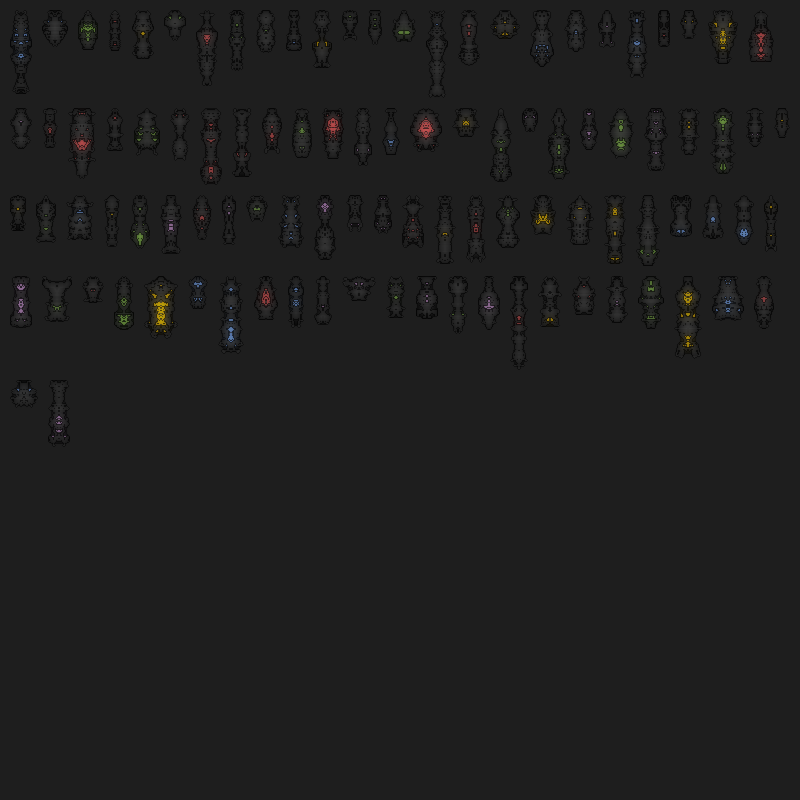
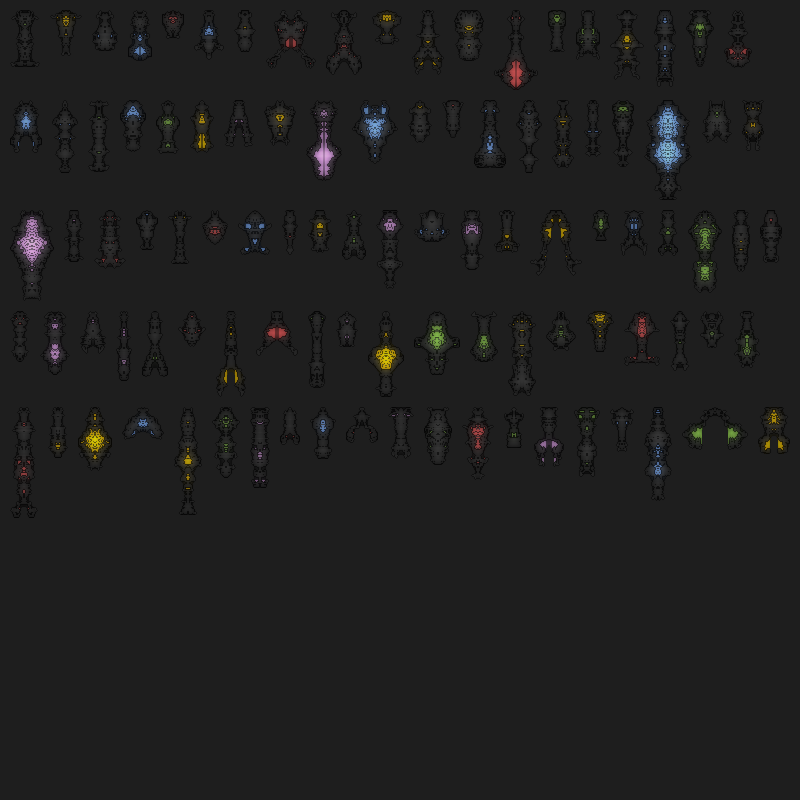
WIP

diff --git a/src/ajb/factory/VesselGeneratorFactory.java b/src/ajb/factory/VesselGeneratorFactory.java
@@ -68,15 +68,7 @@ public class VesselGeneratorFactory {
 
 		if (noOfSecondaryPixels == 0) {
 			result = false;
-		}
-		
-		if (noOfEmptyPixels > noOfFilledPixels) {
-			result = false;
 		}		
-		
-//		if (noOfSecondaryPixels > (noOfFilledPixels / 4)) {
-//			result = false;
-//		}		
 		
 		return result;
 	}
